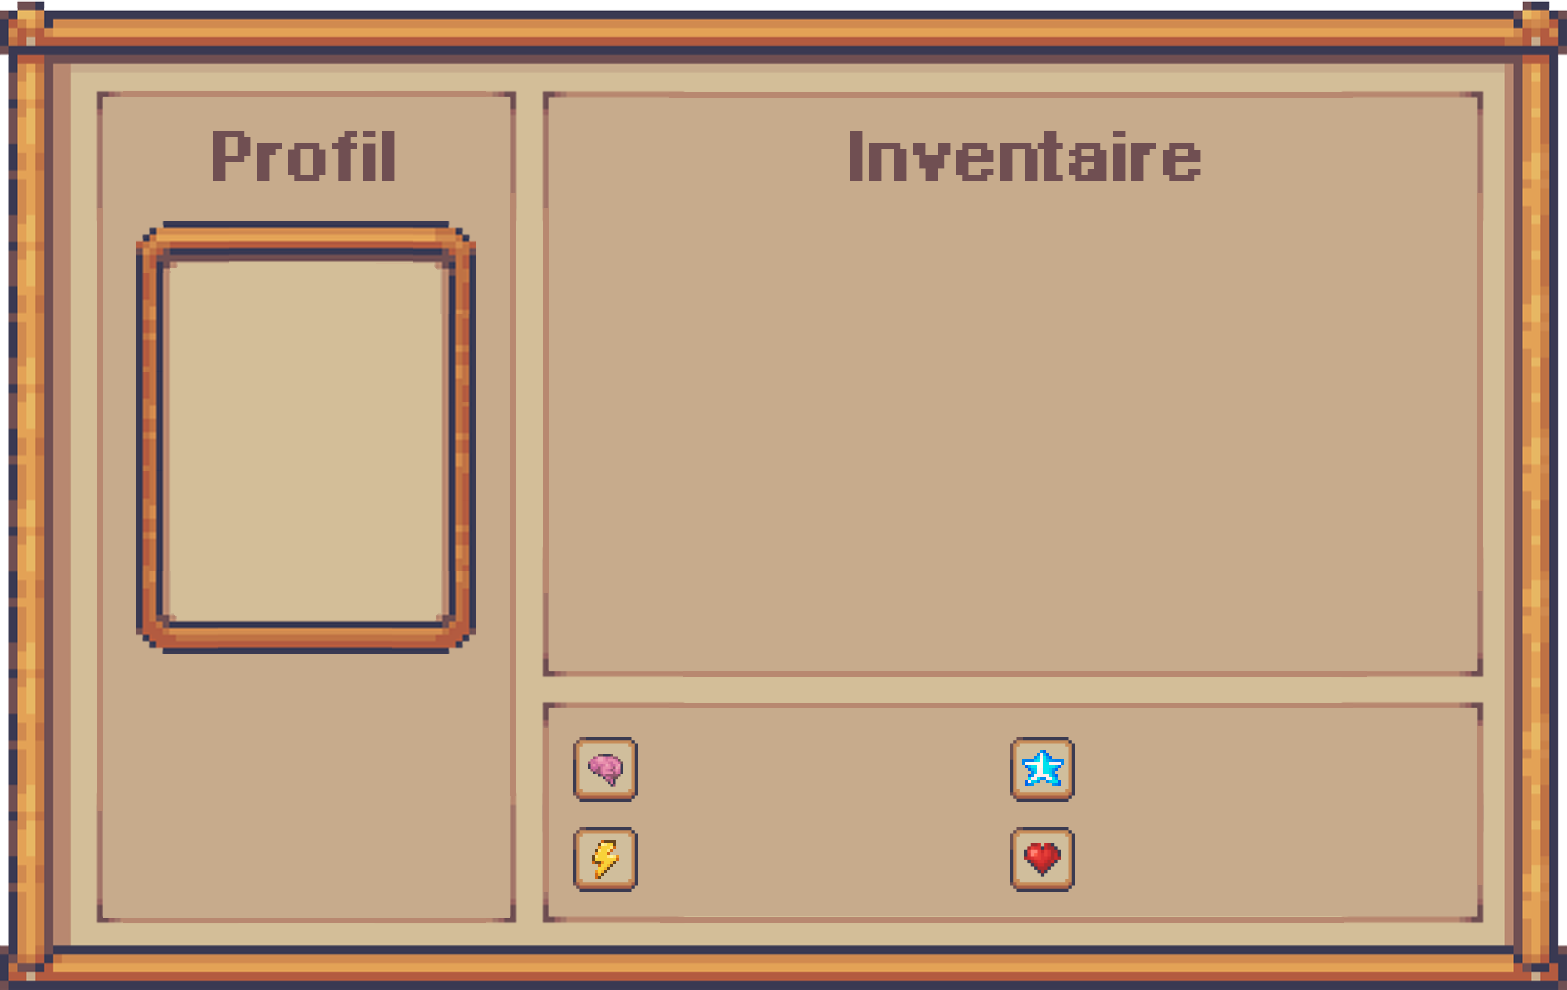
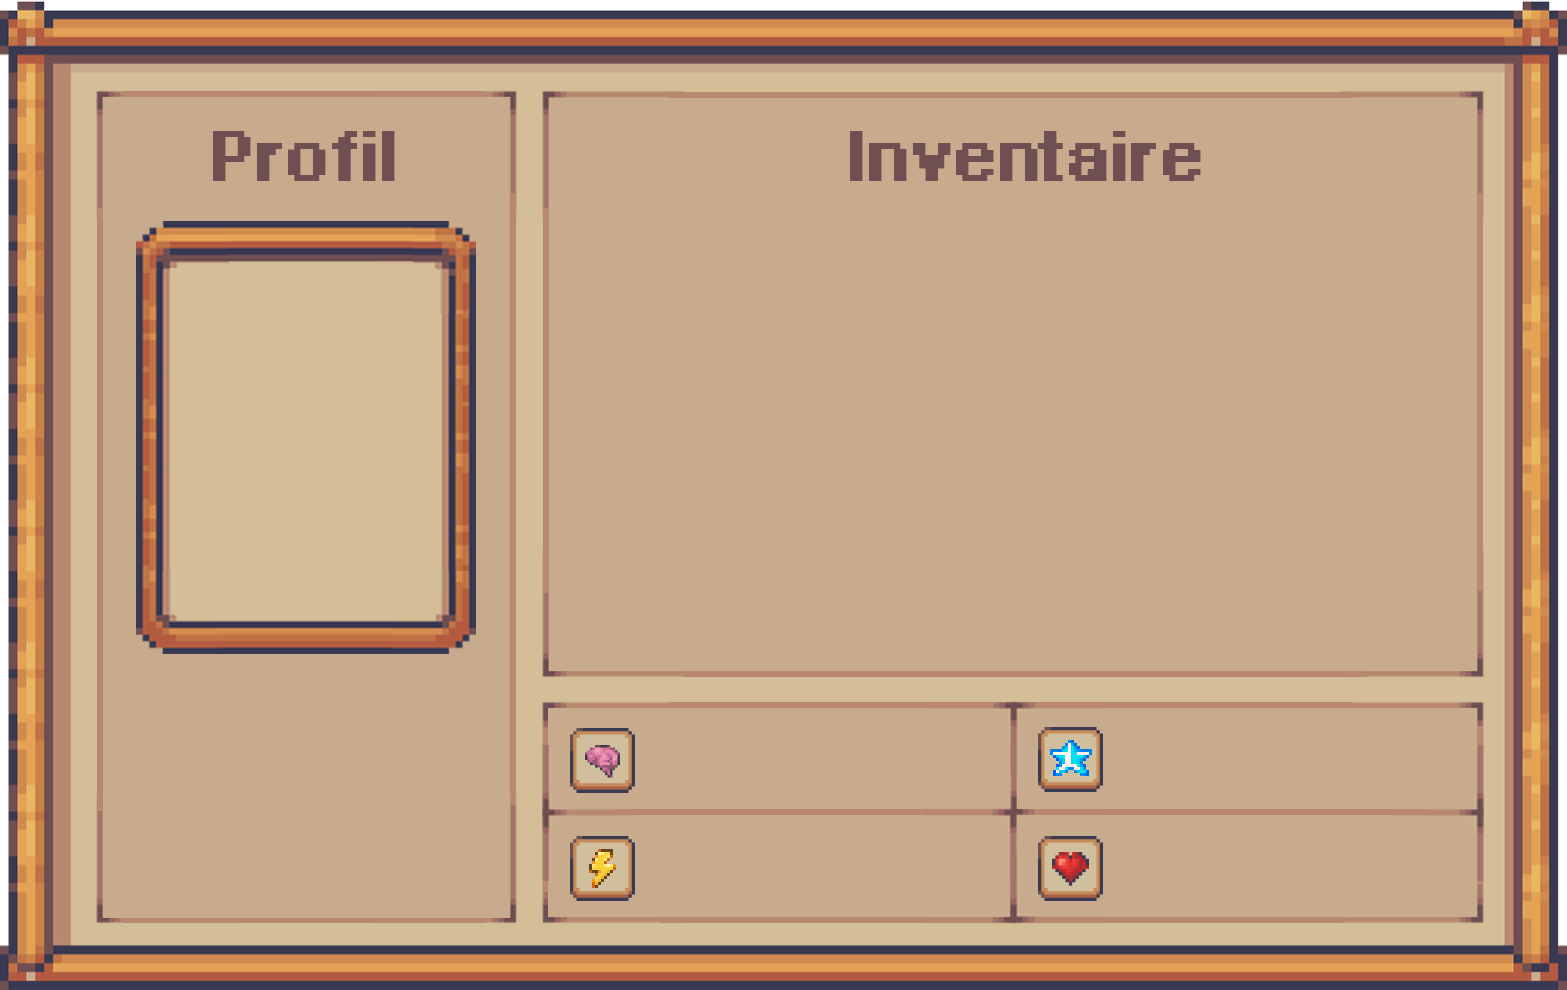
💡Added inventory levels display

Changed region(s): [[0.3369, 0.697, 0.9496, 0.9394]]

diff --git a/src/app/display/inventory/levels.c b/src/app/display/inventory/levels.c
@@ -1,0 +1,64 @@
+/*
+** EPITECH PROJECT, 2023
+** my_rpg
+** File description:
+** levels
+*/
+
+#include <stdlib.h>
+#include "app/types.h"
+#include "my/include/my.h"
+#include "app/display/types.h"
+#include "app/inventory/types.h"
+#include "types/renderer/renderer.h"
+
+static void display_inventory_intelligence_speed(renderer_t *renderer,
+player_t *player)
+{
+    char *intelligence = nbr_to_str(player->xp);
+    char *speed = nbr_to_str(player->xp);
+
+    sfText_setPosition(renderer->objects->text,
+    INVENTORY_INTELLIGENCE_LABEL_POS);
+    sfText_setString(renderer->objects->text, intelligence);
+    sfRenderWindow_drawText(renderer->window, renderer->objects->text, NULL);
+    sfText_setPosition(renderer->objects->text,
+    INVENTORY_SPEED_LABEL_POS);
+    sfText_setString(renderer->objects->text, speed);
+    sfRenderWindow_drawText(renderer->window, renderer->objects->text, NULL);
+    free(intelligence);
+    free(speed);
+}
+
+static void display_inventory_level_life(renderer_t *renderer,
+player_t *player)
+{
+    char *level = nbr_to_str(player->xp);
+    char *life = nbr_to_str(player->xp);
+    char *label_level = my_strcat("Niv. ", level);
+    char *label_life = my_strcat(level, player->xp == 1 ? " vie" : "  vies");
+
+    sfText_setPosition(renderer->objects->text,
+    INVENTORY_LEVEL_LABEL_POS);
+    sfText_setString(renderer->objects->text, label_level);
+    sfRenderWindow_drawText(renderer->window, renderer->objects->text, NULL);
+    sfText_setPosition(renderer->objects->text,
+    INVENTORY_LIFE_LABEL_POS);
+    sfText_setString(renderer->objects->text, label_life);
+    sfRenderWindow_drawText(renderer->window, renderer->objects->text, NULL);
+    free(level);
+    free(life);
+    free(label_life);
+    free(label_level);
+}
+
+void display_inventory_levels(renderer_t *renderer, app_t *app)
+{
+    renderer_objects_reset_text(renderer->objects);
+    sfText_setFont(renderer->objects->text, renderer->font);
+    sfText_setColor(renderer->objects->text, MAIN_COLOR);
+    sfText_setCharacterSize(renderer->objects->text, 22);
+    display_inventory_intelligence_speed(renderer, app->player);
+    sfText_setCharacterSize(renderer->objects->text, 20);
+    display_inventory_level_life(renderer, app->player);
+}

diff --git a/include/app/inventory/types.h b/include/app/inventory/types.h
@@ -23,6 +23,12 @@
     #define INVENTORY_PROFILE_POS ((sfVector2f) {349, 309})
     #define INVENTORY_PROFILE_SIZE ((sfVector2f) {267, 356})
     #define INVENTORY_MAX 18
+    #define INVENTORY_LEVEL_LABEL_POS ((sfVector2f) {1548, 794})
+    #define INVENTORY_LIFE_LABEL_POS ((sfVector2f) {1548, 905})
+    #define INVENTORY_INTELLIGENCE_LABEL_POS ((sfVector2f) {1119, 794})
+    #define INVENTORY_SPEED_LABEL_POS ((sfVector2f) {1119, 902})
+
+typedef struct s_item item_t;
 
 typedef struct s_inventory_item {
     item_t *target;

diff --git a/include/app/display/display.h b/include/app/display/display.h
@@ -234,4 +234,12 @@ void display_progress(progress_t *progress, renderer_t *renderer, app_t *app);
  * @param app App object
  */
 void display_components_progresses(renderer_t *renderer, app_t *app);
+
+/**
+ * @brief Display inventory levels
+ * @param renderer Renderer object
+ * @param app App object
+ */
+void display_inventory_levels(renderer_t *renderer, app_t *app);
+
 #endif /* !DISPLAY_H_ */

diff --git a/include/app/display/types.h b/include/app/display/types.h
@@ -21,5 +21,6 @@
     #define VALID_TOM ((sfVector2f) {1173, 646})
     #define REFUSE_LUCAS ((sfVector2f) {653, 649})
     #define REFUSE_TOM ((sfVector2f) {1184, 649})
+    #define MAIN_COLOR ((sfColor) {107, 80, 82, 255})
 
 #endif /* !DISPLAY_TYPES_H_ */

diff --git a/src/app/display/inventory/inventory.c b/src/app/display/inventory/inventory.c
@@ -17,4 +17,5 @@ void display_inventory(renderer_t *renderer, app_t *app)
         return;
     display_inventory_grids(renderer, app);
     display_inventory_profile(renderer, app);
+    display_inventory_levels(renderer, app);
 }
